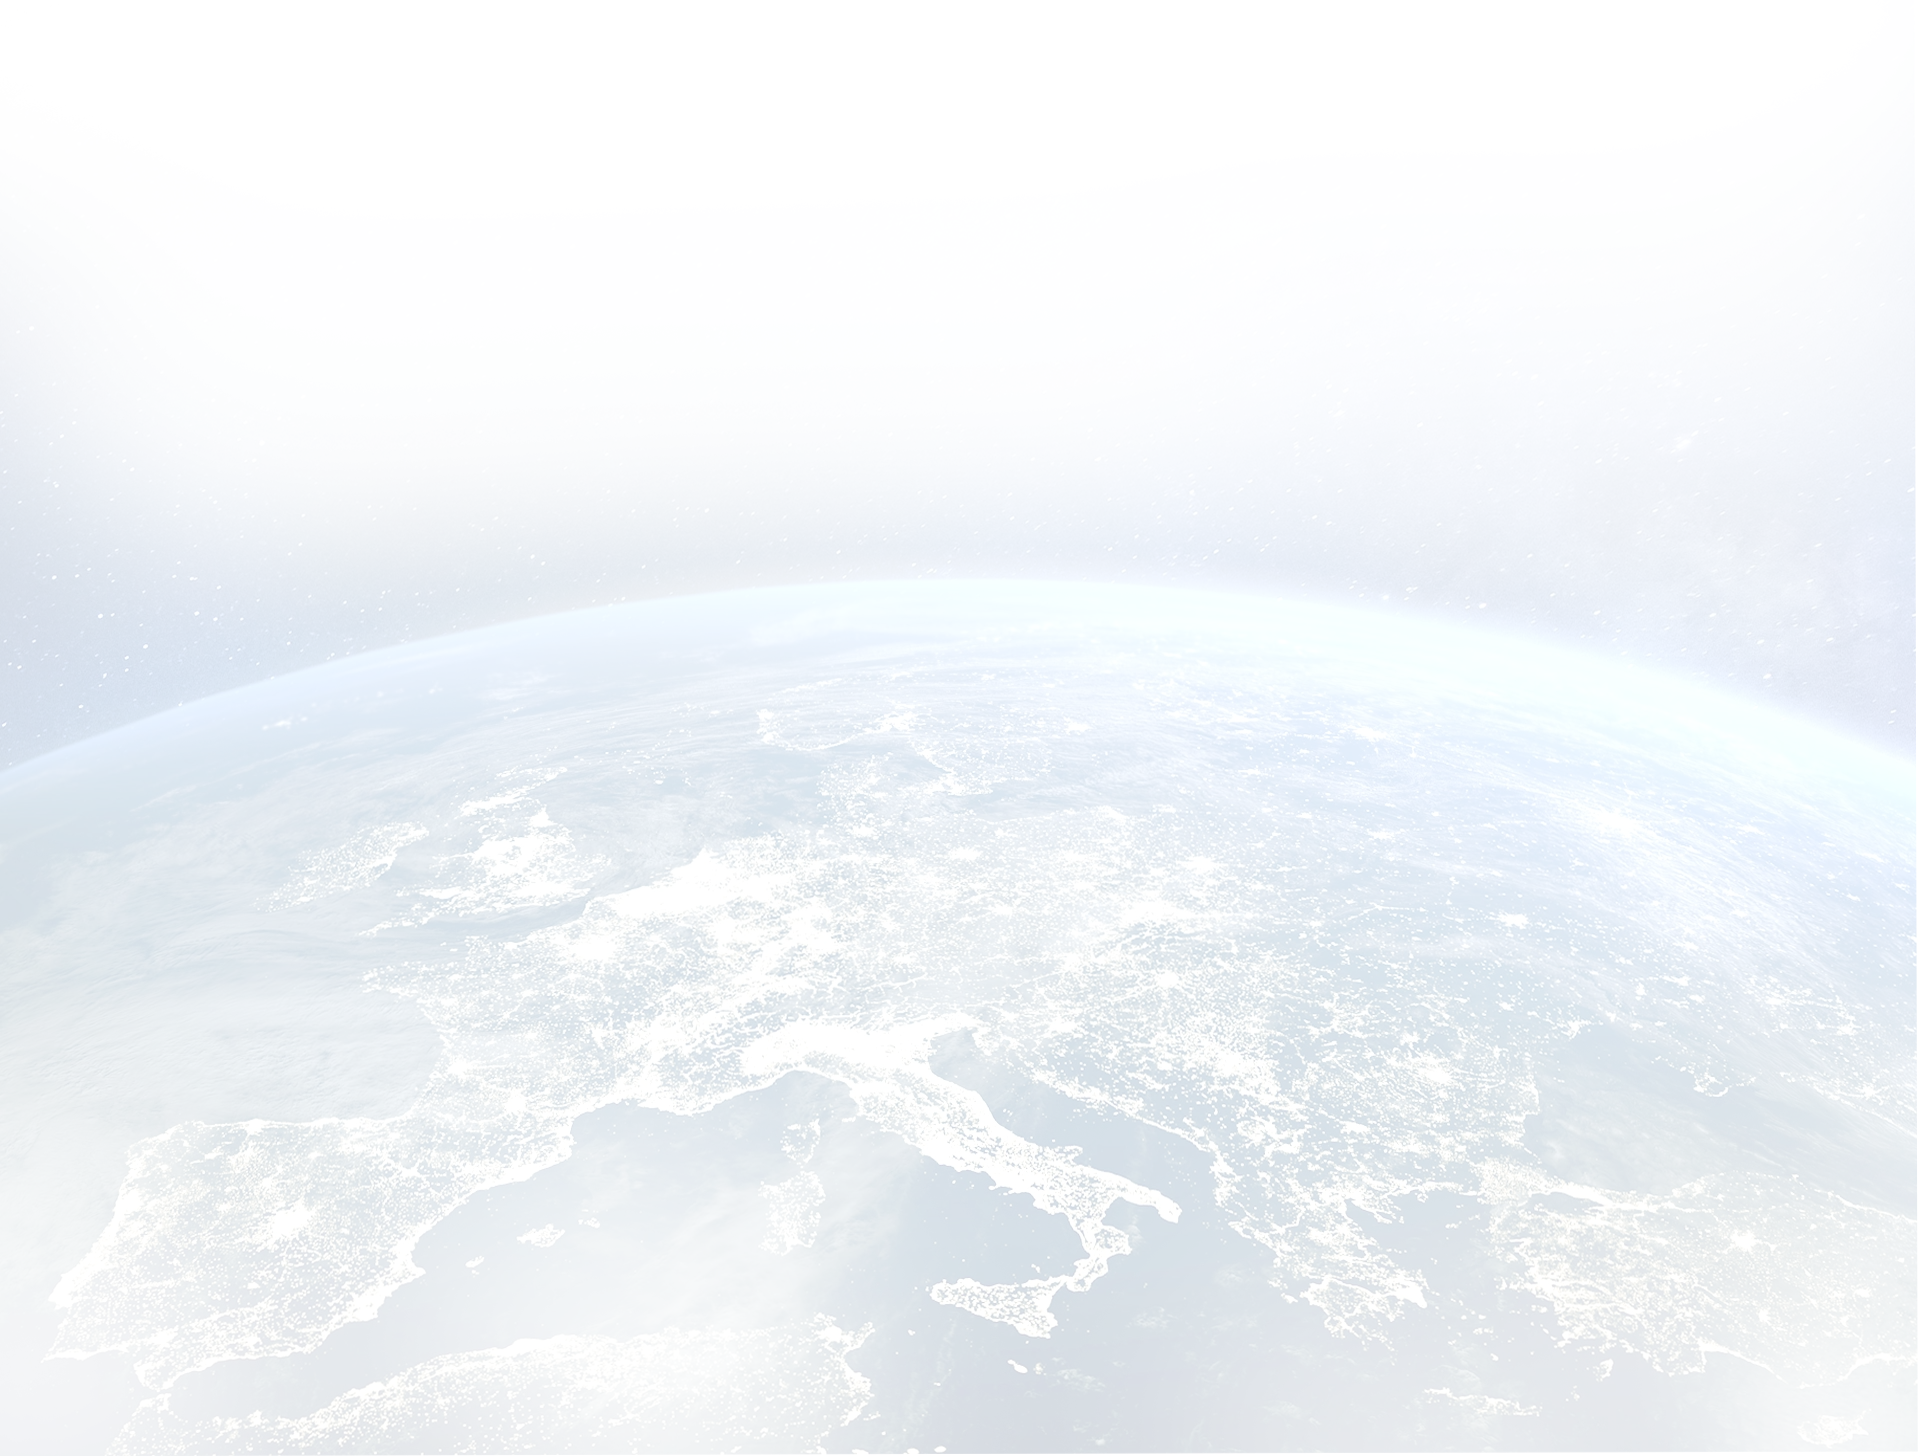
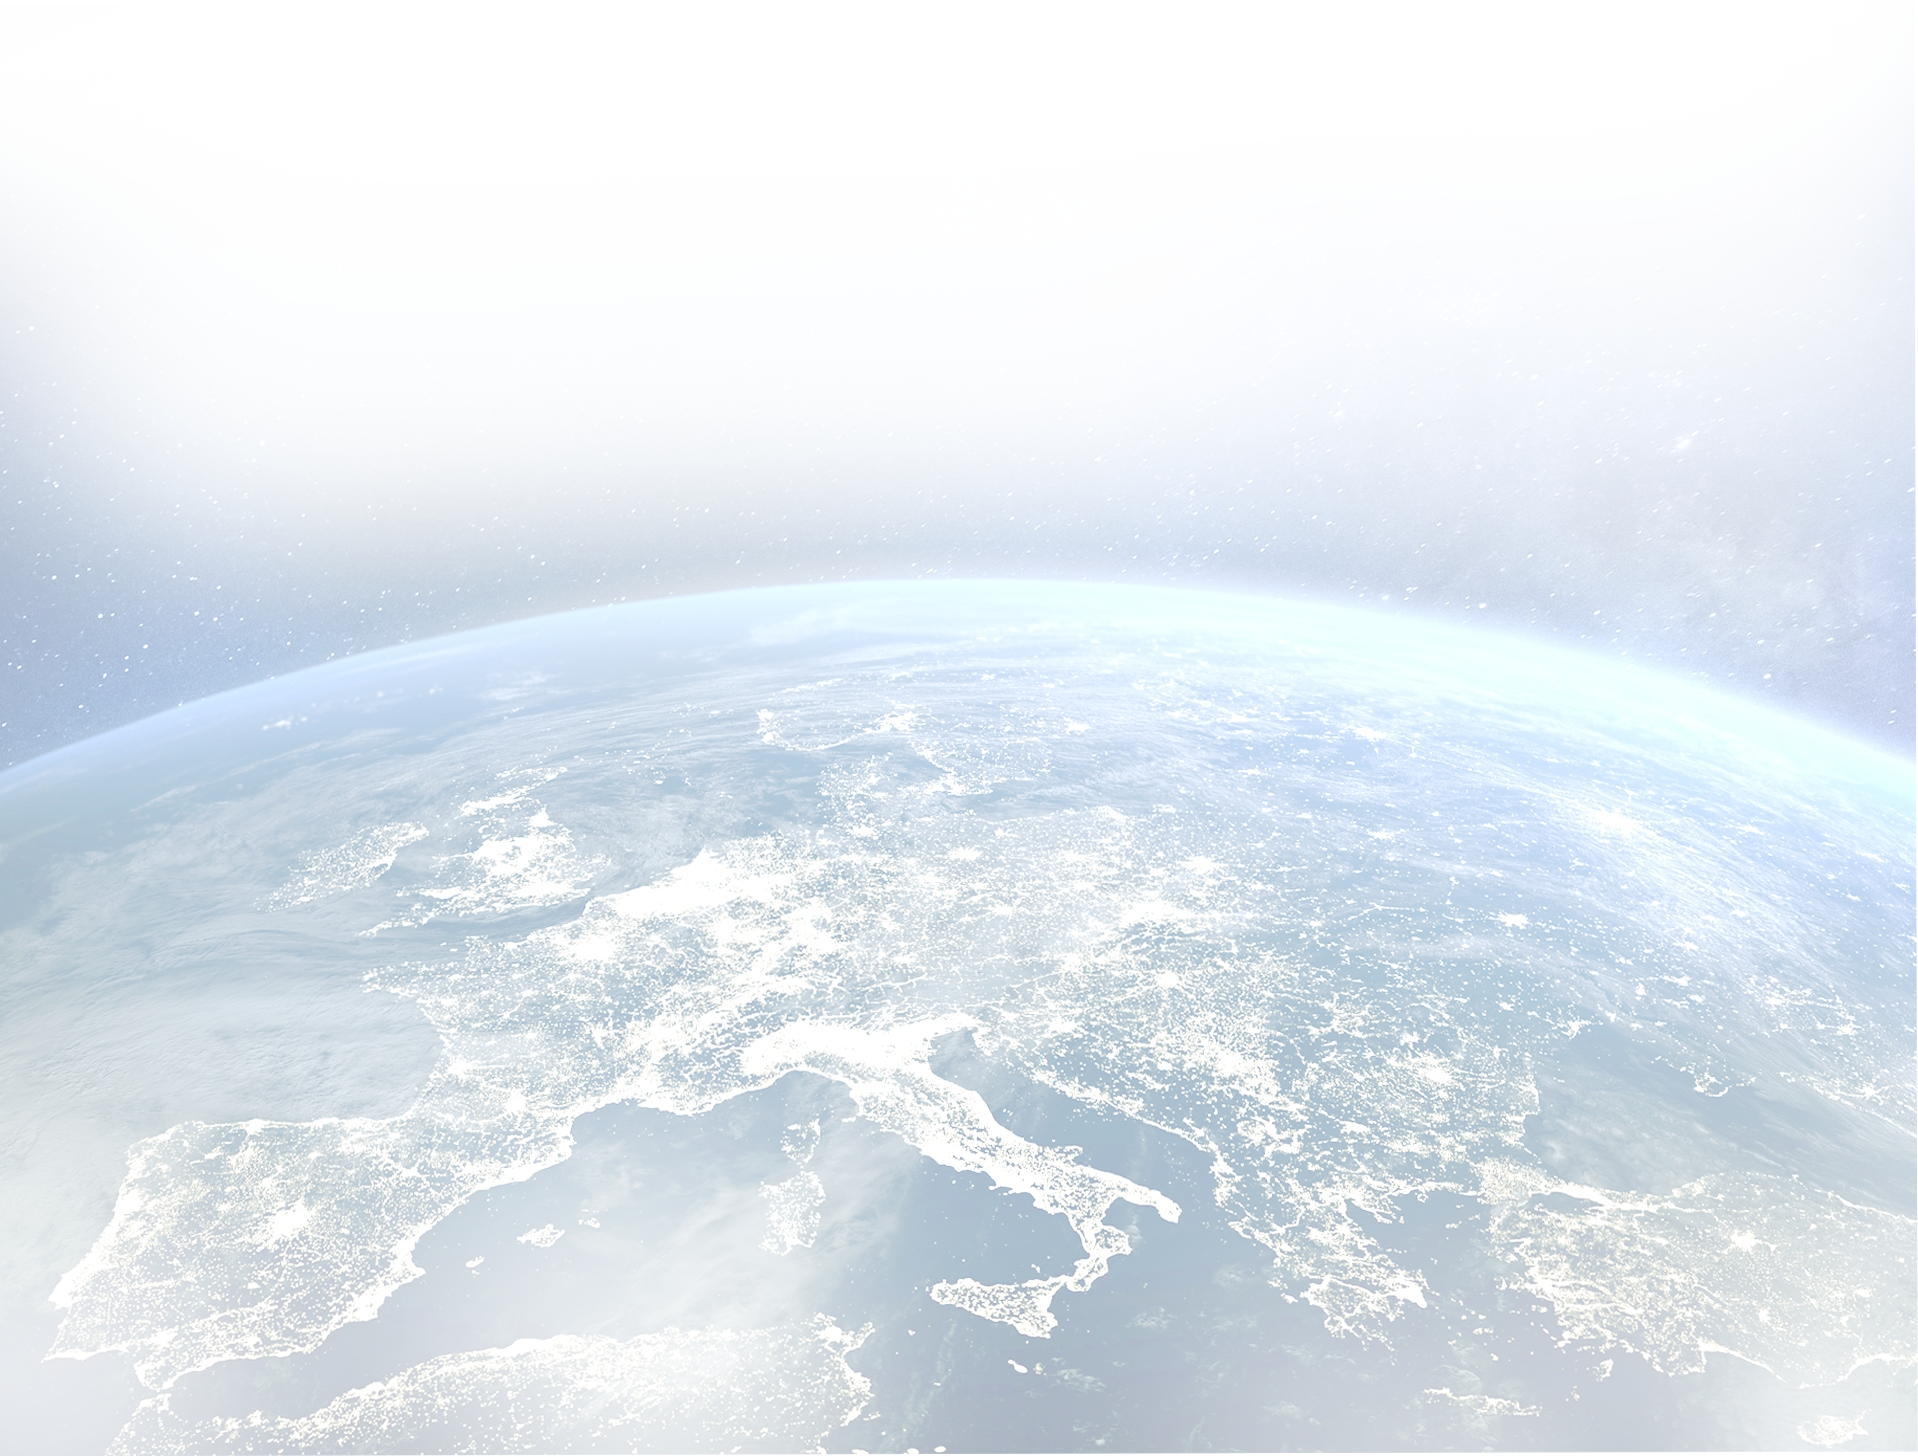
Update assets and improve ComingSoon component layout
Replaced the `divider-little` and `world-globe` assets with updated versions. Adjusted the width of the logo in the ComingSoon component for better responsiveness. Increased the opacity values for the globe and flower elements in the ComingSoonWorldComp to enhance visual clarity. Refactored the InvitationForm to include client-side state management for the consent checkbox, ensuring the submit button remains disabled until consent is given.

diff --git a/src/components/coming-soon/ComingSoonWorldComp.tsx b/src/components/coming-soon/ComingSoonWorldComp.tsx
@@ -6,11 +6,11 @@ import { useEffect, useRef, useState } from "react";
 
 import { artwork } from "@/lib/assets";
 
-const GLOBE_OPACITY = 0.25;
+const GLOBE_OPACITY = 0.35;
 const GLOBE_FADE_SECONDS = 1.1;
 const DAWN_SECONDS = 3;
 
-const FLOWER_OPACITY = 0.08;
+const FLOWER_OPACITY = 0.12;
 const FLOWER_FADE_SECONDS = 0.6;
 /** How long before the shine's own dawn-in completes the flower should already be fully visible. */
 const FLOWER_LEAD_SECONDS = 0.3;
@@ -21,7 +21,7 @@ const MotionImage = motion.create(Image);
 /**
  * Dawns the earth and sun glare in on load, same mechanism as the homepage's
  * SunriseAtmosphere (motion/react, gated on both images' onLoad) but landing
- * on THIS page's resting values (opacity-25 globe, full-strength shine) —
+ * on THIS page's resting values (opacity-35 globe, full-strength shine) —
  * not the homepage's GLOBE_OPACITY_CAP or its post-reveal "full" waypoint,
  * neither of which has an equivalent here.
  *
@@ -29,10 +29,24 @@ const MotionImage = motion.create(Image);
  * homepage's wrapper-<motion.div> pattern: on the homepage the wrapper owns
  * position/left/top/width that Motion must never touch, but here the globe
  * and shine images themselves carry the layout (self-end, h-[Nvh],
- * .fade-top) as direct .stack children, and an inserted wrapper would
- * become the grid item instead, duplicating that placement. This component
- * renders a fragment (no wrapper element) so both images stay direct
- * children of .stack in ComingSoonBackdrop.
+ * .fade-top) as direct .stack children.
+ *
+ * The whole comp is mirrored horizontally via a plain (non-Motion) wrapper
+ * div, not a Tailwind scale-x class on the images themselves: Motion writes
+ * transform as an inline style on the globe/shine (it animates `y`), and an
+ * inline style always wins over a class-based transform, so a scale-x class
+ * on those images would simply be clobbered. The wrapper re-declares
+ * .stack's `display: grid` + `grid-rows-[100%]` + full size, the same fix
+ * ComingSoonBackdrop.tsx documents for its own outer .stack: without a
+ * pinned row, this wrapper's one implicit row would auto-size to its
+ * tallest item (the 38vh globe) and sit at the wrapper's own top edge,
+ * so `self-end` on globe/shine would anchor to that short auto row
+ * instead of the wrapper's real (100%-of-container) bottom edge — silently
+ * pulling both back up toward the middle of the page. Pinning the row to
+ * 100% keeps `self-end` resolving against the actual container bottom,
+ * exactly as it did back when globe/shine were direct .stack children.
+ * This wrapper becomes the single grid item ComingSoonBackdrop's own
+ * .stack lays out.
  *
  * `relative` on the globe/shine images is load-bearing, not cosmetic: it
  * puts them in the same paint step as the flower's `absolute` wrapper so
@@ -44,7 +58,7 @@ const MotionImage = motion.create(Image);
  * own independent image-load timer — that's what lets it be timed relative
  * to the comp's dawn rather than merely coincide with it by accident. It
  * fades in during the tail end of the shine's dawn (delay = DAWN_SECONDS −
- * FLOWER_LEAD_SECONDS − FLOWER_FADE_SECONDS), landing on its resting 0.08
+ * FLOWER_LEAD_SECONDS − FLOWER_FADE_SECONDS), landing on its resting 0.12
  * shortly before the world comp finishes settling. Its wrapper div keeps
  * the `.slow-spin` rotation running throughout — only opacity fades in, so
  * a fully-formed, already-turning flower simply becomes visible rather
@@ -77,14 +91,14 @@ export function ComingSoonWorldComp() {
     : { duration: FLOWER_FADE_SECONDS, delay: FLOWER_DELAY_SECONDS, ease: "easeOut" as const };
 
   return (
-    <>
+    <div className="stack size-full grid-rows-[100%] -scale-x-100">
       <div className="absolute top-0 left-1/2 aspect-square w-screen -translate-x-1/2">
         <MotionImage
           src={artwork.flowerOfLife.src}
           alt=""
           width={artwork.flowerOfLife.width}
           height={artwork.flowerOfLife.height}
-          className="slow-spin size-full opacity-[0.08]"
+          className="slow-spin size-full opacity-[0.12]"
           initial={{ opacity: 0 }}
           animate={{ opacity: ready ? FLOWER_OPACITY : 0 }}
           transition={flowerTransition}
@@ -97,7 +111,7 @@ export function ComingSoonWorldComp() {
         width={artwork.worldGlobe.width}
         height={artwork.worldGlobe.height}
         priority
-        className="fade-top relative h-[38vh] w-full self-end object-cover object-[center_40%] opacity-25"
+        className="fade-top relative h-[38vh] w-full self-end object-cover object-[center_40%] opacity-35"
         initial={{ opacity: 0 }}
         animate={{ opacity: ready ? GLOBE_OPACITY : 0 }}
         transition={globeTransition}
@@ -120,6 +134,6 @@ export function ComingSoonWorldComp() {
         transition={shineTransition}
         onLoad={() => markLoaded("shine")}
       />
-    </>
+    </div>
   );
 }

diff --git a/src/components/coming-soon/InvitationForm.tsx b/src/components/coming-soon/InvitationForm.tsx
@@ -1,3 +1,7 @@
+"use client";
+
+import { useState } from "react";
+
 import { Button } from "@/components/ui/Button";
 import { comingSoon } from "@/content/coming-soon";
 
@@ -5,8 +9,14 @@ import { comingSoon } from "@/content/coming-soon";
  * Mirrors NewsletterForm.tsx's markup, `.field` styling and HTML5-only
  * validation exactly — no submit handler, no backend. Same caveat as that
  * component: the endpoint is wired up when one exists.
+ *
+ * Client component (unlike NewsletterForm) so the submit button can stay
+ * `disabled` until the consent checkbox is checked, on top of the native
+ * `required` validation both already carry.
  */
 export function InvitationForm() {
+  const [consentChecked, setConsentChecked] = useState(false);
+
   return (
     <form className="flex w-full max-w-[36.25rem] flex-col items-center gap-[0.6em]">
       <div className="flex w-full items-center gap-[0.5em]">
@@ -25,17 +35,19 @@ export function InvitationForm() {
         />
       </div>
 
-      <label className="flex items-start gap-[0.5em] text-note text-champagne">
+      <label className="flex items-start gap-[0.5em] text-fine text-champagne">
         <input
           type="checkbox"
           name="consent"
           required
+          checked={consentChecked}
+          onChange={(event) => setConsentChecked(event.target.checked)}
           className="mt-[0.2em] size-[1.125em] shrink-0 appearance-none border border-ash bg-transparent checked:bg-gold"
         />
         <span className="text-left">{comingSoon.consent}</span>
       </label>
 
-      <Button type="submit" className="lowercase">
+      <Button type="submit" className="lowercase" disabled={!consentChecked}>
         {comingSoon.submitLabel}
       </Button>
 

diff --git a/src/components/coming-soon/ComingSoonBackdrop.tsx b/src/components/coming-soon/ComingSoonBackdrop.tsx
@@ -34,6 +34,10 @@ import { artwork } from "@/lib/assets";
  * guessed from the markup. Pinning the row to `100%` of the container's own
  * already-definite height (fixed independently by `<main>`) breaks the
  * circularity outright, regardless of whatever image fills this first slot.
+ * Earth and shine now sit one level deeper — inside ComingSoonWorldComp's
+ * own mirroring wrapper, which is this row's other direct child — so that
+ * wrapper re-pins its own row to `100%` too; see the note there for why
+ * skipping it there would reintroduce the exact same bug.
  *
  * The flower's wrapper (now rendered inside ComingSoonWorldComp, alongside
  * earth and glare — see that file) is `position: absolute` for the same
@@ -64,7 +68,7 @@ import { artwork } from "@/lib/assets";
  * globals.css) is the belt-and-suspenders on top of that: it masks the box's
  * own top ~20% to transparent regardless of what lands there, so a seam
  * can't reappear from a crop tweak alone. `world-globe` additionally keeps
- * `opacity-25` since it has no alpha channel of its own — the mask hides the
+ * `opacity-35` since it has no alpha channel of its own — the mask hides the
  * hard edge, but not the flat rectangle of color it would otherwise be.
  *
  * The flower wrapper's `position: absolute` has a side effect worth

diff --git a/src/components/coming-soon/ComingSoon.tsx b/src/components/coming-soon/ComingSoon.tsx
@@ -42,7 +42,7 @@ export function ComingSoon() {
           width={brand.logo.width}
           height={brand.logo.height}
           priority
-          className="w-[clamp(7rem,9vw,10rem)]"
+          className="w-[clamp(11rem,16vw,18rem)]"
         />
 
         <Divider variant="little" />
